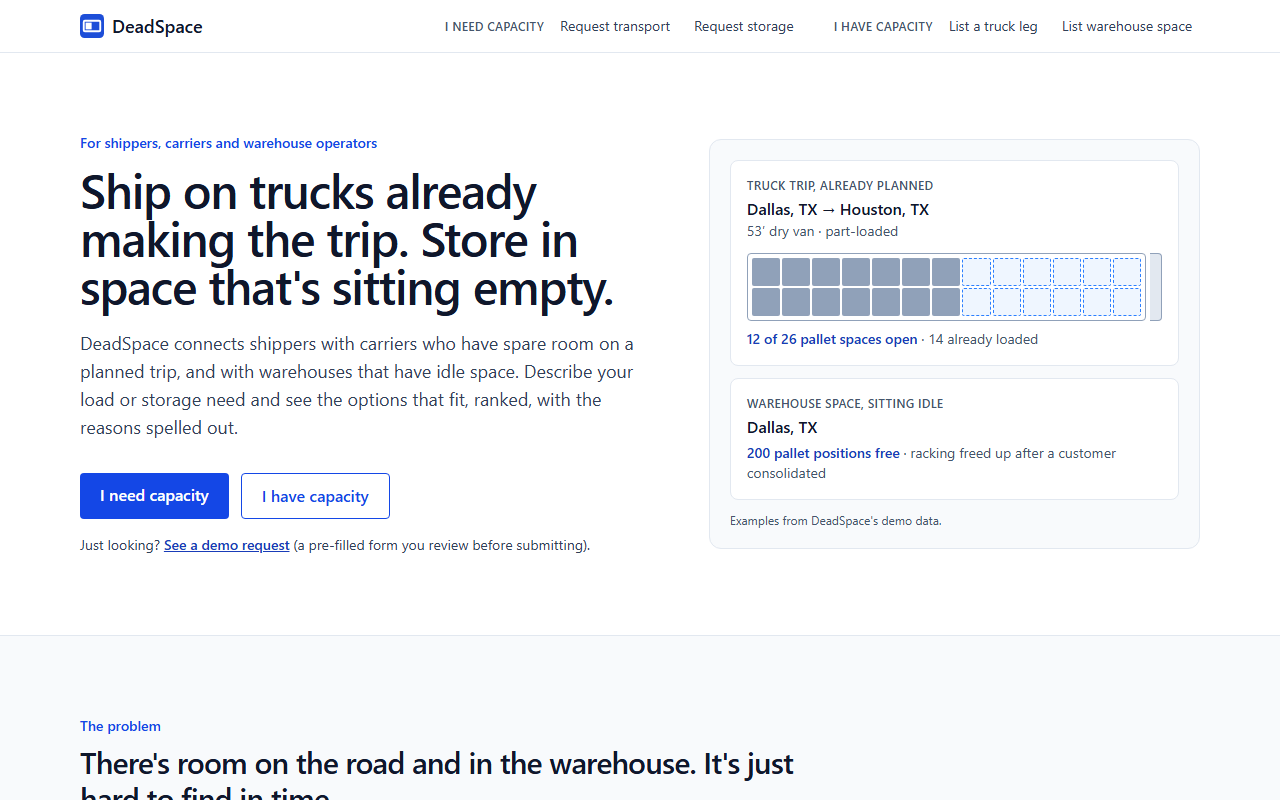
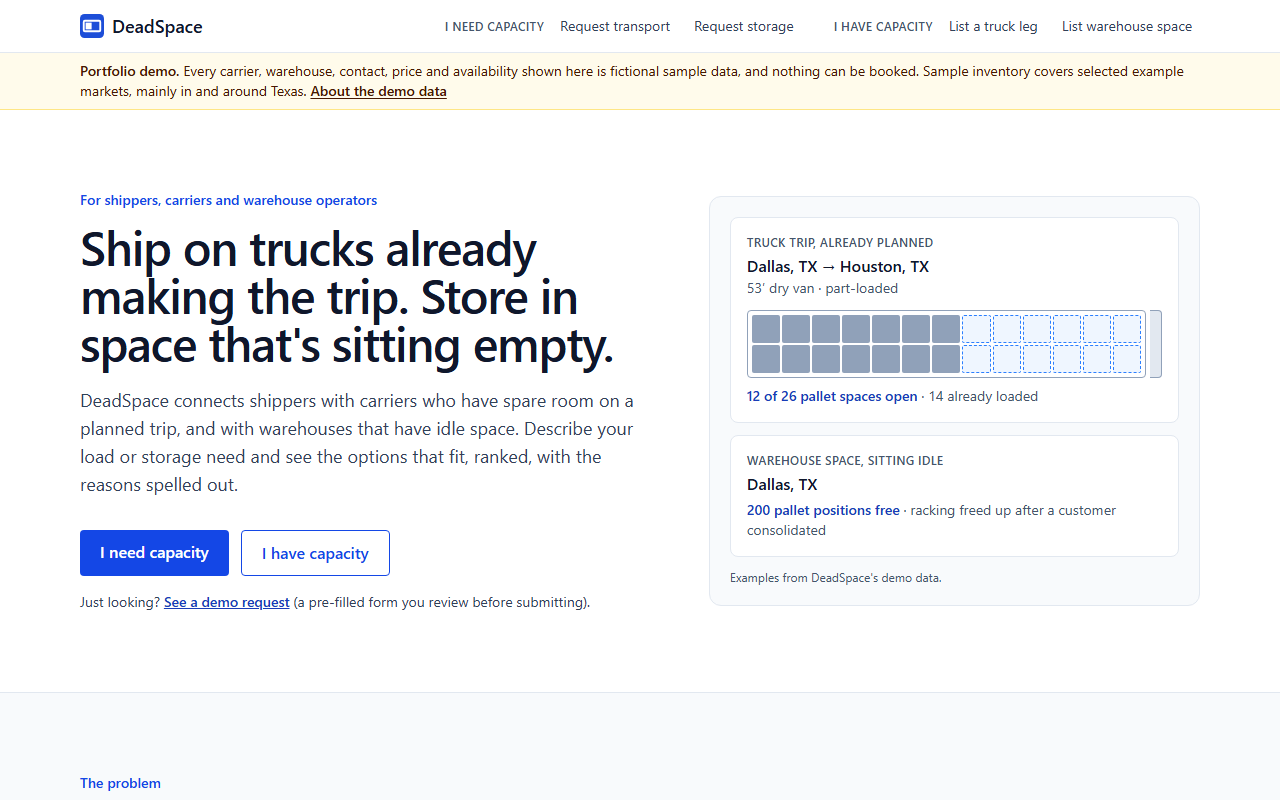
Update README for live DeadSpace demo

diff --git a/README.md b/README.md
@@ -1,25 +1,36 @@
 # DeadSpace
 
+[![CI](https://github.com/Chizzy1927/Deadspace/actions/workflows/ci.yml/badge.svg?branch=main)](https://github.com/Chizzy1927/Deadspace/actions/workflows/ci.yml)
+[![Live demo](https://img.shields.io/badge/live%20demo-deadspace.onrender.com-1d4ed8)](https://deadspace.onrender.com/)
+
 **Find spare room on trucks that are already making the trip, and warehouse space that is sitting idle.**
 
 DeadSpace is a B2B marketplace prototype for _stranded logistics capacity_: the empty or part-empty space on a truck leg a carrier is already planning, and warehouse space that is genuinely idle. A shipper describes a transport or storage need and gets back a short list of options that fit, ranked, with the reasons spelled out.
 
-> **Status: V1 demo build.** It runs locally and has no accounts, bookings or payments. See [Limitations](#limitations).
+## Live demo
+
+### [deadspace.onrender.com](https://deadspace.onrender.com/)
 
 ![DeadSpace landing page on desktop](docs/screenshots/landing-desktop.png)
 
+**Try it (about 30 seconds):**
+
+1. Open the demo and click **"See a demo request"** under the main buttons (or **"Try it with an example"** on the "I need capacity" cards).
+2. The request form opens pre-filled (Dallas to Houston transport, or Dallas storage). Review it and submit.
+3. Read the ranked matches: score, per-factor breakdown, estimated metrics and plain-language reasons.
+
+> **About the demo.** Every carrier, warehouse, contact and price is **fictional sample data**. There are no real carriers, warehouses, bookings, customers or transactions. Public truck and warehouse listing creation is switched off, and those forms say so. It runs on free hosting, so the first load after a quiet period can take about a minute.
+
 ## The problem
 
-Trucks often drive part of a planned trip empty or part-loaded: a return leg, a repositioning move, the room left after a partial load. Warehouses have pallet positions that sit unused between customers. That spare capacity is specific (this trip, these dates, this site) and short-lived, so a shipper who needs it can rarely find it in time, and the owner has little way to offer it.
+Trucks often drive part of a planned trip empty or part-loaded: a return leg, a repositioning move, the room left after a partial load. Warehouses have pallet positions that sit unused between customers. That spare capacity is specific (this trip, these dates, this site) and short-lived, so a shipper who needs it can rarely find it in time, and the owner has little way to offer it. DeadSpace is a prototype exploring that gap; established freight and warehousing marketplaces already exist.
 
-DeadSpace is built around that specificity:
+It is built around that specificity:
 
 - It is **not a generic load board**. Every truck listing is one planned movement with an origin, a destination and a bounded departure window. There is no "truck available anywhere" post.
 - Warehouse listings describe idle capacity: how many pallet positions, for which dates, with what minimum stay and what pricing.
 
-## How it works
-
-The product has two sides:
+## What you can do
 
 |                     | **I need capacity** (shipper)                                        | **I have capacity** (carrier / operator)                               |
 | ------------------- | -------------------------------------------------------------------- | ---------------------------------------------------------------------- |
@@ -27,16 +38,17 @@ The product has two sides:
 | **Warehouse space** | Request storage: location, radius, pallets, dates, required features | List warehouse space: location, pallets, availability, price, minimums |
 | **What you get**    | A ranked list of matches with a score breakdown and reasons          | A confirmation page showing the listing as stored                      |
 
-Matches are computed on demand when a request is viewed. Nothing is stored as a "match", and there is no booking step: each card shows a contact link.
+- **On the public demo:** the request flows work end to end against the sample inventory. The listing forms validate input but store nothing.
+- **Run locally:** everything works, including creating listings (see [Run it locally](#run-it-locally)).
 
-![Transport matches for a Dallas to Houston request](docs/screenshots/transport-matches.png)
+Matches are computed on demand when a request is viewed. Nothing is stored as a "match", and there is no booking step.
 
-## Explainable matching
+## Truck and warehouse matching
 
 The matching engine is plain, deterministic code: **no machine learning, no AI**. The same inputs always give the same ranking, and every result carries the numbers and sentences that explain it.
 
-1. **Feasibility first.** Hard constraints remove anything that cannot work: wrong trailer type, not enough spare room, a pickup window the truck cannot reach, a detour beyond the carrier's stated limit, a warehouse outside the radius or not covering the requested dates, missing required features, and so on. Only feasible matches are ranked.
-2. **Then ranking.** Each feasible match gets a 0-100 score from weighted components, shown as a breakdown on the card.
+1. **Feasibility first.** Hard constraints remove anything that cannot work: wrong trailer type, not enough spare room, a pickup window the truck cannot reach, a detour beyond the carrier's stated limit, a warehouse outside the radius or not covering the requested dates, missing required features, and so on. A match that cannot work is excluded, not given a low score.
+2. **Then ranking.** Each feasible match gets a 0-100 score from weighted components, shown as a breakdown on the card, with estimated metrics (extra miles, empty miles recovered, trailer fill, price) and human-readable reasons.
 
 Default weights (from [`apps/api/src/matching/config.ts`](apps/api/src/matching/config.ts)):
 
@@ -49,19 +61,13 @@ Default weights (from [`apps/api/src/matching/config.ts`](apps/api/src/matching/
 
 Route efficiency is how few extra miles the shipment adds to a trip the carrier was already making. These weights and the thresholds around them are **tunable heuristic defaults chosen for V1**, not optimised or empirically derived values.
 
+![Transport matches for a Dallas to Houston request](docs/screenshots/transport-matches.png)
+
+**Estimates are estimates.** DeadSpace does not call a routing service. Distances are PostGIS straight-line (geodesic) measurements multiplied by a road factor of 1.2, drive times assume a flat 50 mph, and storage costs are prorated by day. Every such figure is labelled **"est."** in the UI and API (`est*` field names). They are for comparing options, not for quoting a route or an invoice.
+
+The matcher is a set of pure functions in `apps/api/src/matching/`: plain objects in (distances precomputed by PostGIS), score, breakdown, metrics and reasons out. It has no database, HTTP, clock or randomness, which keeps it easy to unit-test and to explain. Full constraint lists and score formulas: [`docs/ARCHITECTURE.md`](docs/ARCHITECTURE.md) §5.
+
 ![Storage matches for a Dallas request](docs/screenshots/storage-matches.png)
-
-### Estimates are estimates
-
-DeadSpace does not call a routing service. Distances come from PostGIS straight-line (geodesic) measurements multiplied by a road factor of 1.2; drive times assume a flat 50 mph; storage costs are prorated by day. Every such figure is labelled **"est."** in the UI and API (`est*` field names). They are for comparing options, not for quoting a route or an invoice.
-
-## Screenshots
-
-| Landing page (mobile)                                                                                  | Carrier truck-leg form                                                                                 |
-| ------------------------------------------------------------------------------------------------------ | ------------------------------------------------------------------------------------------------------ |
-| <img src="docs/screenshots/landing-mobile.png" alt="Landing page on a phone-sized screen" width="260"> | <img src="docs/screenshots/carrier-truck-leg-form.png" alt="Form for listing a truck leg" width="420"> |
-
-Screenshots use the seeded demo data only (see [Preparing a demo](#preparing-a-demo)).
 
 ## Architecture
 
@@ -80,21 +86,72 @@ flowchart LR
 ```
 
 - **`packages/shared`** holds the Zod schemas, enums and DTOs used by both the browser and the server, so validation is defined once.
-- **`apps/api`** layers routes, services and repositories. PostGIS distances are computed in the database, then passed as plain numbers to the matching module, which has no database, HTTP, clock or randomness dependencies.
+- **`apps/api`** layers routes, services and repositories. Raw SQL lives only in the geo repository.
 - **`apps/web`** is a React single-page app. The landing page is also the explainer: the "need / have" choice and the matching explanation are sections of `/`, not separate routes.
 
-Depth: [`docs/ARCHITECTURE.md`](docs/ARCHITECTURE.md) covers the data model, the full hard-constraint lists, score formulas and the phase history.
+More on the data model, endpoints and phase history: [`docs/ARCHITECTURE.md`](docs/ARCHITECTURE.md).
 
-### Stack
+### Production deployment
+
+```mermaid
+flowchart LR
+  Browser --> Edge["Cloudflare / Render edge"]
+  subgraph Render["Render Free web service (Node)"]
+    Express["Express API (/api)"]
+    SPA["Built React SPA"]
+  end
+  Edge --> Express
+  Edge --> SPA
+  Express --> Neon[("Neon PostgreSQL + PostGIS")]
+```
+
+One Node service serves both the API and the built web app from the same origin, in front of a Neon Postgres database with PostGIS. It runs on free tiers. The public deployment adds rate limiting, write safeguards and proxy-aware client identification, and is covered by CI and a browser-driven smoke test. Details: [`docs/DEPLOYMENT.md`](docs/DEPLOYMENT.md) and [`docs/OPERATIONS.md`](docs/OPERATIONS.md).
+
+## Tech stack
 
 - **Language / tooling:** TypeScript (strict), npm workspaces, ESLint + Prettier, Vitest, Node 24
 - **Frontend:** React 19, Vite, React Router, Tailwind CSS 4, React Hook Form, TanStack Query
-- **Backend:** Express 5, Prisma 7 (raw SQL only in the geo repository), Zod 4
-- **Database:** PostgreSQL 17 with PostGIS 3.5 (`postgis/postgis:17-3.5`)
-- **Geocoding:** Geoapify behind a vendor-neutral interface; a mock geocoder for tests, the seed and offline development
-- **CI:** GitHub Actions with a PostGIS service container
+- **Backend:** Express 5, Prisma 7, Zod 4
+- **Database:** PostgreSQL 17 with PostGIS 3.5
+- **Geocoding:** Geoapify behind a vendor-neutral interface; a mock geocoder for tests, the seed and the public demo
+- **Hosting / CI:** Render, Neon, GitHub Actions (with a PostGIS service container)
 
-## Running locally
+## Key engineering decisions
+
+- **One schema source.** Zod schemas in `packages/shared` validate input on both client and server and define the API types.
+- **Pure, deterministic matching; feasibility before ranking.** Easy to test and explain. Weights and thresholds live in one config file and are described as tunable defaults.
+- **PostGIS for geometry, with a drift check.** `*Geog` columns are Postgres generated columns that Prisma cannot model, so those migrations are hand-edited and `npm run db:drift` (also run in CI) fails if the schema and migrations disagree.
+- **Vendor-neutral geocoding.** Only `geocoding/geoapify.ts` knows about Geoapify; only label, coordinates and provider name are stored.
+- **Explicit domain tables.** `TruckLeg`, `TransportRequest`, `WarehouseSpace` and `StorageRequest` are separate tables rather than one generic "capacity" table.
+- **No stored matches.** Matches are computed per request, so they cannot go stale.
+
+## Testing and verification
+
+| Layer               | What it covers                                                                                                                |
+| ------------------- | ----------------------------------------------------------------------------------------------------------------------------- |
+| Unit tests          | Shared schemas, the matching functions directly, API and web code (`npm test`)                                                |
+| PostGIS integration | The HTTP API against a real PostGIS test database, including a seeded Dallas to Houston scenario (`npm run test:integration`) |
+| Static checks       | ESLint + Prettier, strict TypeScript, the production build, and a Prisma schema vs. migrations drift check                    |
+| GitHub Actions      | Runs all of the above, plus migrations, on every pull request ([workflow](.github/workflows/ci.yml))                          |
+| Production smoke    | A browser-driven check of the deployed site (`npm run smoke:public -- <url>`); see [`docs/DEPLOYMENT.md`](docs/DEPLOYMENT.md) |
+
+Phase 6 deployment verification (November 2026): the public smoke suite passed 53/53 against the production URL. That is a point-in-time deployment result, not a current test count.
+
+## Public-demo limitations
+
+This is a V1 prototype. Deliberately out of scope or limited:
+
+- **Fictional data, no real transactions.** Every company, contact, price and availability is made up.
+- **Public listing creation is off.** The truck and warehouse forms validate but store nothing.
+- **No authentication or accounts.** Request pages are addressed by hard-to-guess IDs in the URL. That is a demo convenience, **not access control**. Do not enter sensitive information.
+- **No booking, payments or messaging.**
+- **No routing or live maps.** Distances and drive times are straight-line estimates.
+- **Trucks and warehouses only,** matched one truck leg at a time: no containers or intermodal, multi-stop routes or load consolidation.
+- **Heuristic scoring.** Weights are untested defaults, not tuned against real shipment data.
+- **Limited market coverage.** Sample inventory covers selected example markets, mainly in and around Texas.
+- **Free hosting.** Expect a cold start after idle periods.
+
+## Run it locally
 
 Requirements: **Node 24** (see `.nvmrc`) and **Docker** for the database.
 
@@ -103,65 +160,17 @@ npm install
 cp .env.example .env        # defaults work as-is; GEOCODER=mock needs no API key
 docker compose up -d        # PostgreSQL 17 + PostGIS on host port 5433
 npm run db:migrate          # apply migrations
-npm run db:seed             # load the demo data
+npm run db:seed             # load the sample data
 npm run dev                 # API on :3001, web on :5173
 ```
 
-Open <http://localhost:5173>.
+Open <http://localhost:5173>. Locally, listing creation is enabled by default. With `GEOCODER=mock`, location search knows a fixed list of US cities (mainly in and around Texas); set `GEOCODER=geoapify` and your own `GEOAPIFY_API_KEY` in `.env` to use live search.
 
-Production migrate/seed procedures (`npm run db:deploy`, `DIRECT_DATABASE_URL`, manual recovery) are in [docs/OPERATIONS.md](docs/OPERATIONS.md).
+Other scripts: `npm run lint`, `npm run typecheck`, `npm run build`, `npm run db:drift`. Seed horizon and re-seeding: [`docs/OPERATIONS.md`](docs/OPERATIONS.md). The database image is amd64-only, so ARM machines run it under emulation.
 
-With `GEOCODER=mock`, location search only knows a fixed list of US cities (mainly in and around Texas). To use Geoapify search, set `GEOCODER=geoapify` and `GEOAPIFY_API_KEY` in `.env`. The seed never calls Geoapify.
+## Docs
 
-Other scripts: `npm run lint`, `npm run typecheck`, `npm run build`, `npm run db:drift`. The image is published for amd64 only, so ARM machines run it under emulation.
-
-## Preparing a demo
-
-Truck legs are seeded per departure day for the next 46 days, so the transport example keeps working for about 45 days after you seed; warehouse windows are longer. Reseeding adds the newer days and never moves existing rows. Details and the reseed schedule are in [docs/OPERATIONS.md](docs/OPERATIONS.md). To get reliable results:
-
-1. Start the database: `docker compose up -d`
-2. Migrate: `npm run db:migrate`
-3. **Seed (and re-seed when the horizon runs low):** `npm run db:seed`. It is idempotent: it inserts only the missing truck-leg days, upserts the warehouses, and does not touch rows created through the app.
-4. Start the app: `npm run dev`
-5. On the landing page, use **"See a demo request"** or the **"Try it with an example"** links on the "I need capacity" cards. They open the request form pre-filled (Dallas to Houston transport, or Dallas storage). Review it and submit; it is not submitted for you.
-
-The example requests are built relative to the visitor's own next UTC midnight. If it has been more than about 45 days since you seeded, run `npm run db:seed` again. Integration tests check that the transport example returns the intended matches on every day of the horizon, and that both examples match freshly seeded data.
-
-## Testing
-
-```bash
-npm run lint                # ESLint + Prettier check
-npm run typecheck
-npm test                    # unit tests: shared, api (incl. matching), web
-npm run test:integration    # API + PostGIS tests; needs `docker compose up -d`
-npm run db:drift            # Prisma schema vs. the migrated database
-npm run build
-```
-
-At the time of writing there are about 400 unit tests and about 60 integration tests. The matching functions are unit-tested directly; the integration suite runs the HTTP API against a real PostGIS test database (created and migrated automatically), including a seeded Dallas to Houston scenario. CI (`.github/workflows/ci.yml`) runs lint, typecheck, unit tests, build, migrations, the drift check and the integration tests on every pull request.
-
-## Engineering decisions
-
-- **One schema source.** Zod schemas in `packages/shared` validate input on both client and server and define the API types.
-- **Pure, deterministic matching.** The matcher takes plain objects with precomputed distances and returns score, breakdown, metrics and human-readable reasons. That makes it easy to unit-test and to explain.
-- **Feasibility before ranking.** A match that cannot work is excluded rather than given a low score.
-- **Weights in one place.** All weights and thresholds live in `matching/config.ts`, and are described as tunable defaults.
-- **PostGIS for geometry, with a drift check.** `*Geog` columns are Postgres generated columns that Prisma cannot model, so the migrations are hand-edited and `npm run db:drift` (also run in CI) fails if the schema and migrations disagree.
-- **Vendor-neutral geocoding.** Only `geocoding/geoapify.ts` knows about Geoapify; only label, coordinates and provider name are stored.
-- **Explicit domain tables.** `TruckLeg`, `TransportRequest`, `WarehouseSpace` and `StorageRequest` are separate tables rather than one generic "capacity" table.
-- **No stored matches.** Matches are computed per request, so they cannot go stale.
-
-## Limitations
-
-This is a V1 demo build. Deliberately out of scope:
-
-- **No authentication or accounts.** Request and listing pages are addressed by hard-to-guess IDs in the URL. That is a demo convenience, **not access control**: anyone with a link can view the record. Do not enter sensitive information.
-- **No booking, payments or messaging.** Matches show a contact link only.
-- **No routing or live maps.** Distances and drive times are straight-line estimates (see above).
-- **Trucks and warehouses only.** No containers or intermodal, and no multi-stop routes or load consolidation.
-- **Single-leg matching.** A request is matched to one truck leg at a time.
-- **Heuristic scoring.** Weights are untested defaults, not tuned against real shipment data.
-- **Seeded, fictional data.** All companies and contacts in the demo data are made up.
-- **Not deployed.** Hosting is not set up yet; run it locally.
-
-Known follow-ups are tracked in [`docs/TODO.md`](docs/TODO.md).
+- [`docs/ARCHITECTURE.md`](docs/ARCHITECTURE.md): data model, endpoints, matching rules, phase history
+- [`docs/DEPLOYMENT.md`](docs/DEPLOYMENT.md): production runbook and smoke test
+- [`docs/OPERATIONS.md`](docs/OPERATIONS.md): migrations, seeding, recovery
+- [`docs/TODO.md`](docs/TODO.md): known follow-ups

diff --git a/docs/TODO.md b/docs/TODO.md
@@ -20,7 +20,7 @@ Deliberately left out of the landing/demo phase; not forgotten.
   standalone page could go deeper (hard constraints per flow, full score formulas).
 - **Storage example card on the landing page.** The storage example is a link on the "I need capacity"
   card; only a transport match is shown as the worked example.
-- **Deployment.** Still Phase 6 (see `docs/ARCHITECTURE.md` §9).
+- **Deployment.** Done in Phase 6 (see `docs/DEPLOYMENT.md`).
 - **Seed anchor visibility.** The seed's anchor date is only visible via `SEED_ANCHOR` / the seed output. If
   more than about a day passes between seeding and a demo, matches can disappear until re-seeding.
 - **Reproducible README screenshots.** `docs/screenshots/` was captured by hand with headless Chrome against
